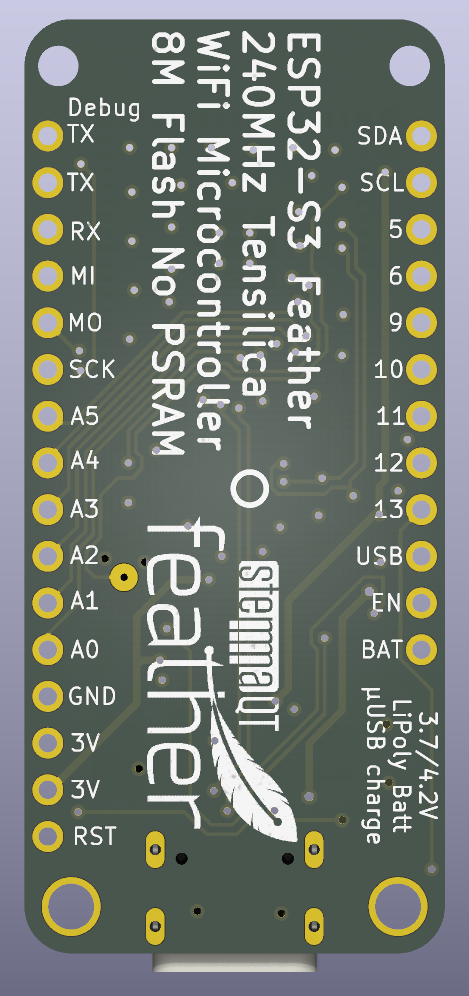
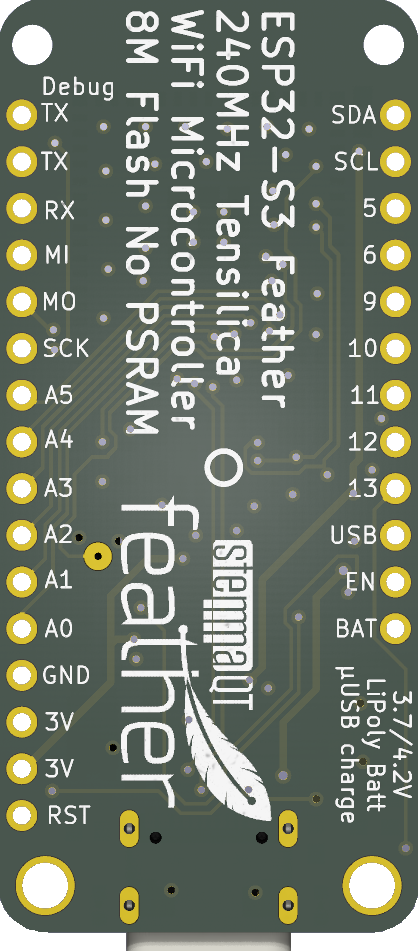
Add an assembly tutorial video.

diff --git a/readme.md b/readme.md
@@ -13,7 +13,9 @@
 
 ## Assembly
 
-**Coming Soon: A tutorial video and PDF guide!**
+Check out the video `./docs/Inkterface Assembly.mp4` for a quick assembly tutorial!
+
+**Coming Soon: a PDF guide!**
 
 **Warning: The screws will thread themselves into the plastic, but be VERY gentle
 as it is easy to strip the plastic away and need to re-print parts!**